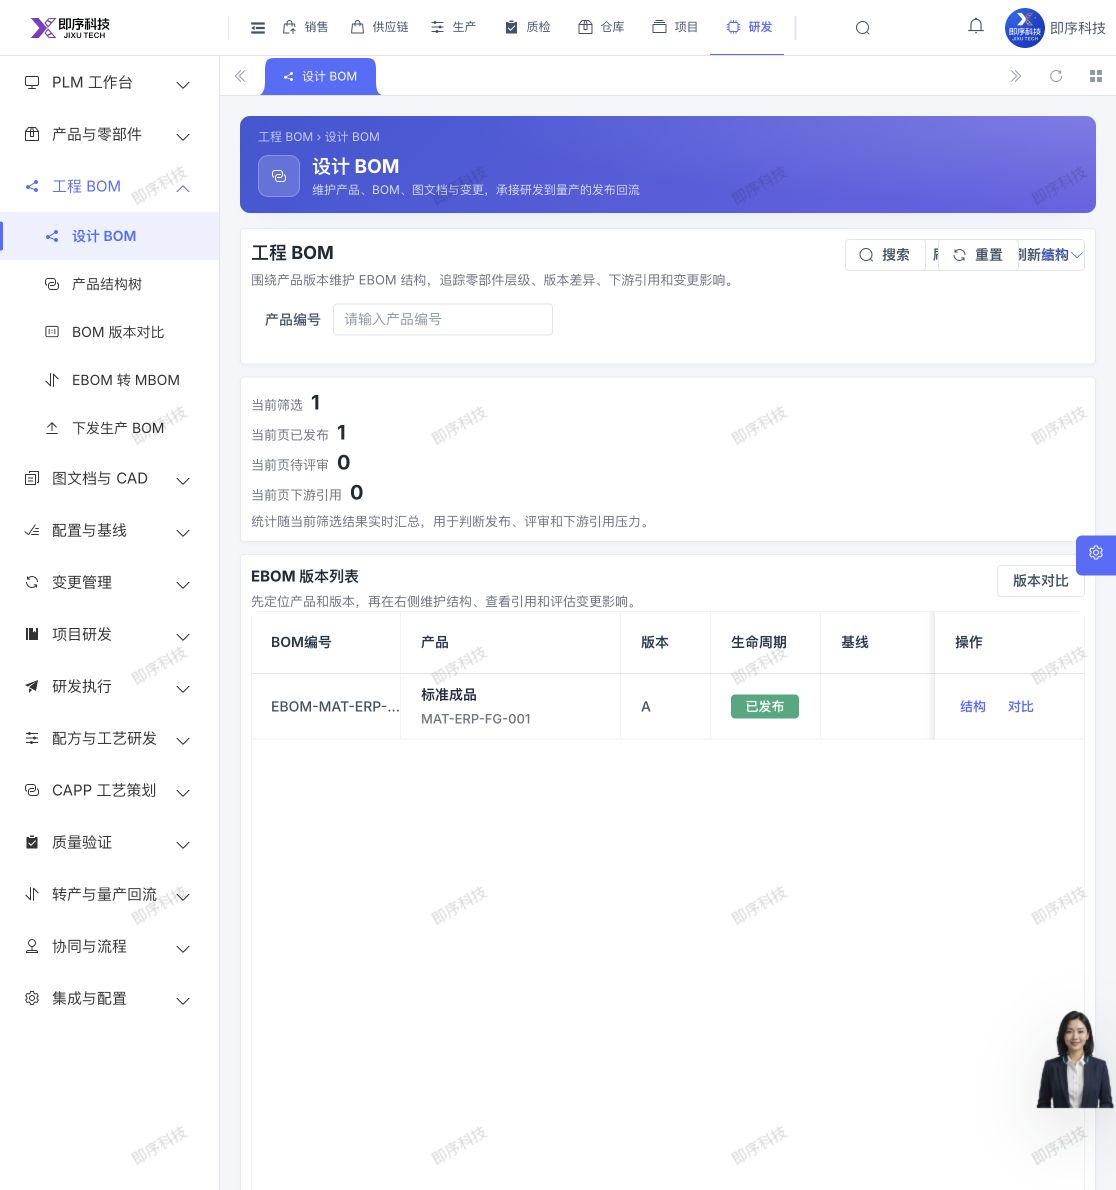
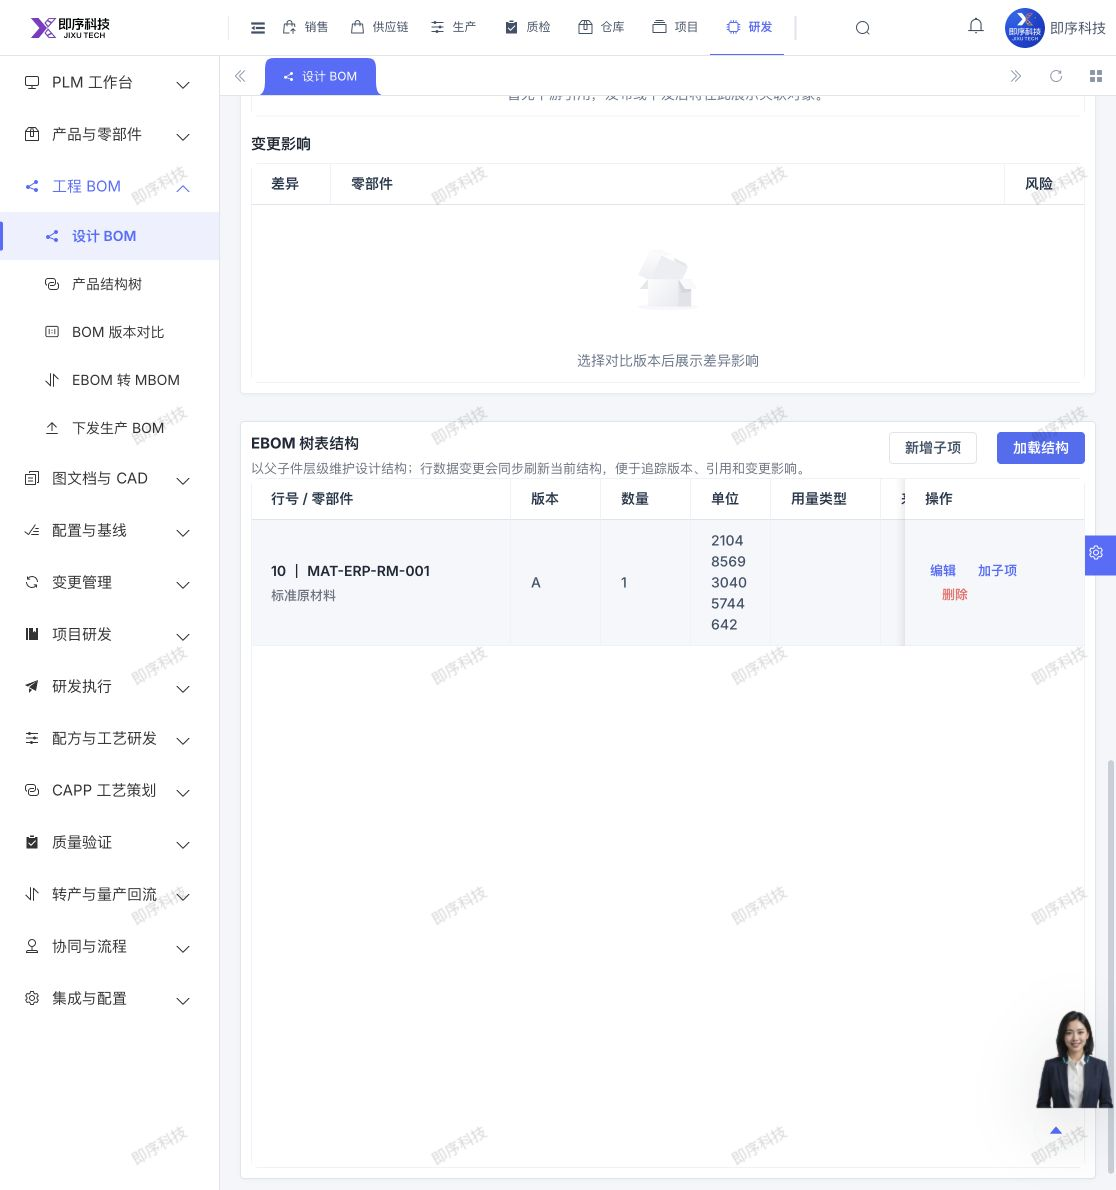
test(prod): tighten PLM evidence and catalog ordering

diff --git a/BUG-LIST.md b/BUG-LIST.md
@@ -983,7 +983,27 @@
 - **证据**：[结构化浏览器观察](evidence/2026-10-12-codex-plm117-119/observations.json)。
 - **状态**：待修复。
 
-## 二十二、2026-10-12 Codex PLM 产品族与单位字段续测（09:20–09:42）
+### Bug 118：图纸版本对比切换版本后差异表不重新计算
+
+- **路径 / 级别**：`/plm/document-cad/drawing-compare`，P1。
+- **生产复现**：初始选择 `DRW-AXLE-001 / A.2` → `B.1`，将基准版本切换到 `A.1` 后，页面标题更新为 A.1，但差异表首行仍为 `A.2 -> B.1`；点击“生成差异”只弹“已按当前双版本生成差异清单”。
+- **源码确认**：`drawing-compare/index.vue` 的 `diffRows` 是固定数组，`generateDiff()` 没有 API 或计算逻辑，版本选项也是页面内固定字符串。
+- **修复要求**：候选项应来自同一图纸的正式版本 API，差异计算、两侧预览和导出必须绑定当前左右版本 ID，并支持刷新/重新进入后的真实回查。
+- **边界**：没有下载导出报告，没有保存、上传或修改版本数据。
+- **证据**：[结构化浏览器观察](evidence/2026-10-12-codex-plm117-119/observations.json)。
+- **状态**：待修复。
+
+### Bug 119：图纸版本对比导出按钮在默认视口被裁切
+
+- **路径 / 级别**：`/plm/document-cad/drawing-compare`，P2。
+- **生产复现**：默认 1280px 视口下，“导出报告”按钮边界右侧为 `1309`，超出视口 29px，截图中按钮文案被裁切，操作区无法完整展示。
+- **附带证据**：生成差异和导出报告的 DOM accessible name 分别为 `>生成差异`、`>导出报告`，模板中的多余 `>` 字符会污染无障碍名称和自动化定位。
+- **修复要求**：操作区应在默认桌面视口完整可见，并清理按钮模板的多余字符；补充 1280×720 布局回归。
+- **边界**：没有点击下载，没有产生生产文件。
+- **证据**：[结构化浏览器观察](evidence/2026-10-12-codex-plm117-119/observations.json)。
+- **状态**：待修复。
+
+## 二十二、2026-10-12 Codex PLM 产品族与单位字段续测（09:20–09:52）
 
 ### Bug 121：PLM 多页面把单位内部 ID 直接展示给用户
 
@@ -999,18 +1019,19 @@
   - 零部件主数据 `MAT-ERP-RM-001 / 标准原材料` 的单位显示 `2104856930405744642`。
   - 零部件主数据 `MAT-ERP-FG-001 / 标准成品` 的单位显示 `2104856930384773121`。
   - 设计 BOM `EBOM-MAT-ERP-FG-001-A` 的结构行 `MAT-ERP-RM-001` 单位显示 `2104856930405744642`，详情用量显示为 `1 2104856930405744642`。
-- **证据**：[零部件主数据单位 ID](evidence/2026-10-12-codex-plm-followup/part-master-unit-id.jpg)、[设计 BOM 单位 ID](evidence/2026-10-12-codex-plm-followup/ebom-unit-id.jpg)、[结构化观察](evidence/2026-10-12-codex-plm120-122/observations.json)。
-- **纠偏**：本轮只读 DOM 核对确认 EBOM 表头和数据行实际都是 12 列，未证明存在列数错位；问题明确收敛为单位字段未做名称映射及数量/单位拼接不可读。
+- **证据**：[零部件主数据单位 ID](evidence/2026-10-12-codex-plm-followup/part-master-unit-id.jpg)、[设计 BOM 单位 ID](evidence/2026-10-12-codex-plm-followup/ebom-unit-id.jpg)、[本轮 DOM 观察](evidence/2026-10-12-codex-plm-followup/observations.json)、[前轮观察](evidence/2026-10-12-codex-plm120-122/observations.json)。
+- **纠偏**：本轮只读 DOM 核对确认 EBOM 表头和数据行实际都是 12 列，未证明存在列数错位；问题收敛为单位值错误，不把正常的“数量 + 单位名称”拼接认定为缺陷。
 - **修复要求**：统一使用单位字典/名称映射，覆盖 PLM API、详情、列表、Job 初始化和新租户初始化；不能只给当前生产库做显示补丁，也不能用内部 ID 作为回退展示值。
 - **状态**：待修复。
 
-### Bug 122：BOM 版本对比输入不存在时仍展示固定差异
+### Bug 122：BOM 版本对比变更输入后仍展示固定差异
 
 - **模块**：研发 → 工程 BOM → BOM 版本对比
 - **级别**：P1，版本评审结果不可信。
 - **页面**：`/plm/engineering-bom/bom-compare`
 - **复现**：将“基准版本 ID”改为 `999`、“目标版本 ID”改为 `888`，点击“生成差异”。
 - **实际**：仍显示差异数 `2`、高风险 `1`，并保留 `PLM-FASTENER-08` 用量 `4 PCS → 6 PCS`、`PLM-WIRE-12` 替代件 `A 供应商 → B 供应商` 两条固定差异；无版本不存在、空结果或失败提示。
+- **证据边界**：没有从版本列表独立证明 `999/888` 不存在；已证实的是输入变化前后仍保留同一组演示差异，不将“版本不存在”作为已验证前提。
 - **证据**：[PLM BOM 120–122 结构化观察](evidence/2026-10-12-codex-plm120-122/observations.json)、[原始续测报告](reports/2026-10-12-codex-plm120-122.md)。
 - **修复要求**：只在两个有效且可比较的版本校验通过后展示结果；差异、风险、处置建议和导出内容必须绑定本次输入，不得使用固定演示数组。
 - **状态**：待修复。
@@ -1018,7 +1039,7 @@
 ### Bug 123：产品台账产品族展示内部数据库 ID
 
 - **模块**：研发 → 产品与零部件 → 产品台账
-- **级别**：P1，产品分类信息不可读，影响检索、结构追溯和工程判断。
+- **级别**：P2，产品分类信息不可读；未证明该显示问题阻断产品保存。
 - **页面**：`/plm/product-part/product-ledger`
 - **复现**：
   1. 打开产品台账。
@@ -1045,24 +1066,4 @@
 - **证据**：[原始 PLM 工作区观察](evidence/2026-10-12-codex-plm120-122/observations.json)、[编号更正报告](reports/2026-10-12-codex-plm120-122.md)。
 - **编号说明**：原始本地报告使用 120，但远端 Bug 120 已由 Muse 用于 OA 发起流程持续加载失败；为避免覆盖协作方条目，本问题固定使用 Bug 124。
 - **修复要求**：覆盖共享 PLM 工作区布局，在 1280×720 默认视口完整展示文件选择、预览、批注摘要、修订详情和主要动作；与 Bug 117 批注功能、Bug 119 对比页按钮裁切分开验收。
-- **状态**：待修复。
-
-### Bug 118：图纸版本对比切换版本后差异表不重新计算
-
-- **路径 / 级别**：`/plm/document-cad/drawing-compare`，P1。
-- **生产复现**：初始选择 `DRW-AXLE-001 / A.2` → `B.1`，将基准版本切换到 `A.1` 后，页面标题更新为 A.1，但差异表首行仍为 `A.2 -> B.1`；点击“生成差异”只弹“已按当前双版本生成差异清单”。
-- **源码确认**：`drawing-compare/index.vue` 的 `diffRows` 是固定数组，`generateDiff()` 没有 API 或计算逻辑，版本选项也是页面内固定字符串。
-- **修复要求**：候选项应来自同一图纸的正式版本 API，差异计算、两侧预览和导出必须绑定当前左右版本 ID，并支持刷新/重新进入后的真实回查。
-- **边界**：没有下载导出报告，没有保存、上传或修改版本数据。
-- **证据**：[结构化浏览器观察](evidence/2026-10-12-codex-plm117-119/observations.json)。
-- **状态**：待修复。
-
-### Bug 119：图纸版本对比导出按钮在默认视口被裁切
-
-- **路径 / 级别**：`/plm/document-cad/drawing-compare`，P2。
-- **生产复现**：默认 1280px 视口下，“导出报告”按钮边界右侧为 `1309`，超出视口 29px，截图中按钮文案被裁切，操作区无法完整展示。
-- **附带证据**：生成差异和导出报告的 DOM accessible name 分别为 `>生成差异`、`>导出报告`，模板中的多余 `>` 字符会污染无障碍名称和自动化定位。
-- **修复要求**：操作区应在默认桌面视口完整可见，并清理按钮模板的多余字符；补充 1280×720 布局回归。
-- **边界**：没有点击下载，没有产生生产文件。
-- **证据**：[结构化浏览器观察](evidence/2026-10-12-codex-plm117-119/observations.json)。
 - **状态**：待修复。

diff --git a/reports/2026-10-12-codex-plm120-122.md b/reports/2026-10-12-codex-plm120-122.md
@@ -4,12 +4,13 @@
 生产地址：`https://jixu-ai.com`。复用当前已登录生产浏览器；页面品牌为“即序科技”，不据此推断租户实名或权限范围。
 
 > 编号更正：本报告初稿将 PLM 工作区问题记为 Bug 120；远端清单已由 Muse 使用 Bug 120 记录 OA 发起流程加载失败。为避免覆盖协作方条目，本文中的 PLM 工作区问题改称 Bug 124；Bug 121、Bug 122 保持不变。
+> 复核说明：表头/数据行各 12 列的结论来自 09:20 起的后续只读 DOM 核对，不属于本报告 08:30–08:56 的原始观察；[后续观察](../evidence/2026-10-12-codex-plm-followup/observations.json)独立记录该证据。
 
 ## 结论
 
 - 新增 Bug 124：PLM 三栏工作区横向溢出，在线预览右侧批注区在默认视口不可完整查看；版本与迭代也有同类超宽布局。
 - 新增 Bug 121：设计 BOM 单位列显示疑似数据库 ID `2104856930405744642`，详情页还拼接成 `1 2104856930405744642`。
-- 新增 Bug 122：BOM 版本对比页面在输入不存在的版本 ID 后仍保留两条固定演示差异，没有校验、空结果或失败提示。
+- 新增 Bug 122：BOM 版本对比页面在变更输入版本 ID 后仍保留两条固定演示差异，没有校验、空结果或失败提示。
 - 以上条目与 Bug 117–119 分开登记：117 是批注业务链路失效，118 是图纸版本差异没有按选择重算，119 是图纸对比页操作区裁切；124 是跨 PLM 工作区的整体宽度问题。
 - 本轮只做页面导航、版本输入、按钮点击和视觉/可访问性读取，没有保存、上传、下载、签入、签出、审批、删除、配置修改或生产部署。
 
@@ -45,15 +46,15 @@
 - **实际结果**：
   - 表头声明了“数量、单位、用量类型、来源图文档、生效条件、生效/审批、变更状态、下游状态、替代件”等多列。
   - 真实行 `10 ｜ MAT-ERP-RM-001 / 标准原材料`、版本 `A`、数量 `1` 后，单位列直接显示 `2104856930405744642`，疑似把数据库 ID 当成单位展示。
-  - 本轮通过只读 DOM 核对确认：表头和数据行实际都是 12 列；用量类型、来源图文档、生效条件、下游状态、替代件等字段为空，不能据此断言发生了列错位。
+  - 后续只读 DOM 核对确认：表头和数据行实际都是 12 列；用量类型、来源图文档、生效条件、下游状态、替代件等字段为空，不能据此断言发生了列错位。
   - 节点详情进一步显示 `用量：1 2104856930405744642`，把数量和该数字拼接在同一字段中。
 - **预期**：
   - 单位应显示合法单位（如 PCS、件等）或明确的空值，不应展示内部主键。
-  - 表格列必须按 DTO/接口字段一一映射；缺失字段应显示统一空态，数量和单位不能拼接成不可读文本。
+  - 表格列必须按 DTO/接口字段一一映射；缺失字段应显示统一空态。“数量 + 可读单位”是正常展示，错误在于单位值为内部 ID。
   - 详情、结构表、产品结构树应使用同一 EBOM 明细事实源和字段映射。
 - **风险**：工程人员可能按错误单位理解用量，后续采购、CAPP、生产 BOM 和变更影响判断均可能使用错误信息。
 
-## Bug 122：BOM 版本对比忽略输入并展示固定演示差异
+## Bug 122：BOM 版本对比变更输入后仍展示固定演示差异
 
 - **级别**：P1，版本变更评审结果不可信。
 - **页面**：`/plm/engineering-bom/bom-compare`
@@ -64,8 +65,9 @@
   4. 点击“生成差异”。
 - **实际结果**：
   - 页面仍显示差异数 `2`、高风险 `1` 和上述两条差异。
-  - 没有出现“版本不存在”、参数校验、空结果或接口失败提示。
+  - 没有出现参数校验、空结果或接口失败提示。
   - 修改前后差异内容、风险和处置建议均没有变化，无法证明结果来自当前输入版本。
+- **证据边界**：本轮没有从版本列表证明 `999/888` 不存在；不把版本不存在作为已确认前提。
 - **预期**：
   - 页面初始应为空态，只有在两个有效版本通过校验后才展示差异。
   - 生成差异必须使用当前基准版本 ID、目标版本 ID查询或计算；版本不存在、版本不可比、无差异都要分别提示。

diff --git a/reports/2026-10-12-codex-plm-followup.md b/reports/2026-10-12-codex-plm-followup.md
@@ -1,6 +1,6 @@
 # 2026-10-12 Codex 生产浏览器续测：PLM 产品族与单位字段
 
-观察时间：2026-10-12 09:20–09:42，Asia/Shanghai。
+观察时间：2026-10-12 09:20–09:52，Asia/Shanghai。
 生产地址：`https://jixu-ai.com`。复用当前已登录生产浏览器；页面品牌为“即序科技”，不据此推断租户实名或权限范围。
 
 ## 结论
@@ -21,16 +21,18 @@
   - 零部件主数据 `MAT-ERP-RM-001 / 标准原材料` 的单位显示 `2104856930405744642`。
   - 零部件主数据 `MAT-ERP-FG-001 / 标准成品` 的单位显示 `2104856930384773121`。
   - 设计 BOM `EBOM-MAT-ERP-FG-001-A` 的结构行 `MAT-ERP-RM-001` 单位显示 `2104856930405744642`，详情用量文本为 `1 2104856930405744642`。
-  - 其余 EBOM 转 MBOM、下发生产 BOM 和产品结构树页面复现同一类单位 ID 暴露，详见上一轮观察报告和本轮截图。
+  - 本轮前半段还在产品结构树、EBOM 转 MBOM 选中版本后、下发生产 BOM 查询 `MAT-ERP-FG-001` 后观察到同一单位 ID；没有点击校验、生成草稿、预校验或下发。上述三个页面没有单独截图，截图证据仅覆盖主数据和设计 BOM。
 - **证据**：
   - [零部件主数据单位 ID](../evidence/2026-10-12-codex-plm-followup/part-master-unit-id.jpg)
   - [设计 BOM 单位 ID](../evidence/2026-10-12-codex-plm-followup/ebom-unit-id.jpg)
   - [上一轮结构化观察](../evidence/2026-10-12-codex-plm120-122/observations.json)
+  - [本轮只读 DOM 列映射](../evidence/2026-10-12-codex-plm-followup/observations.json)
+- **纠偏**：EBOM 结构表实际有 12 个表头和 12 个数据单元格。空字段被可访问性树省略，不代表 DOM 列错位；正常的数量与单位名称拼接不是缺陷。
 - **修复边界**：修复应统一使用单位字典/名称映射，不应把主键作为展示值；同时核对 Job 初始化、现有 PLM API 以及新租户初始化，避免只在当前页面做格式化。不要用生产数据库补丁替代代码修复。
 
 ## Bug 123：产品族展示内部 ID
 
-- **级别**：P1，产品主数据的分类信息不可读，影响产品检索、结构追溯和工程人员判断。
+- **级别**：P2，产品主数据的分类信息不可读；没有验证产品保存，因此不声称阻断写入。
 - **页面**：`/plm/product-part/product-ledger`
 - **复现步骤**：
   1. 打开“研发 → 产品与零部件 → 产品台账”。
